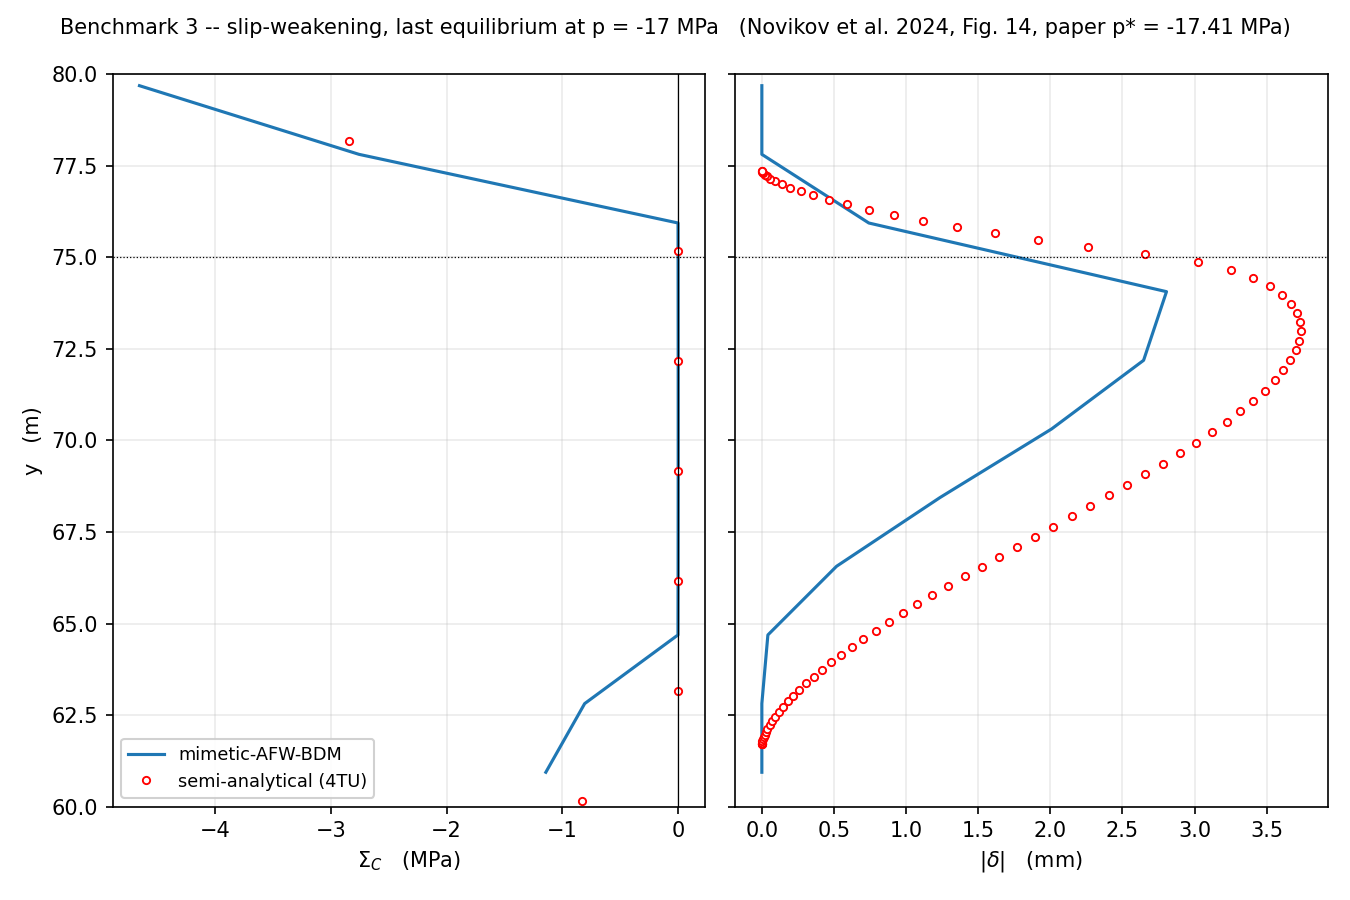
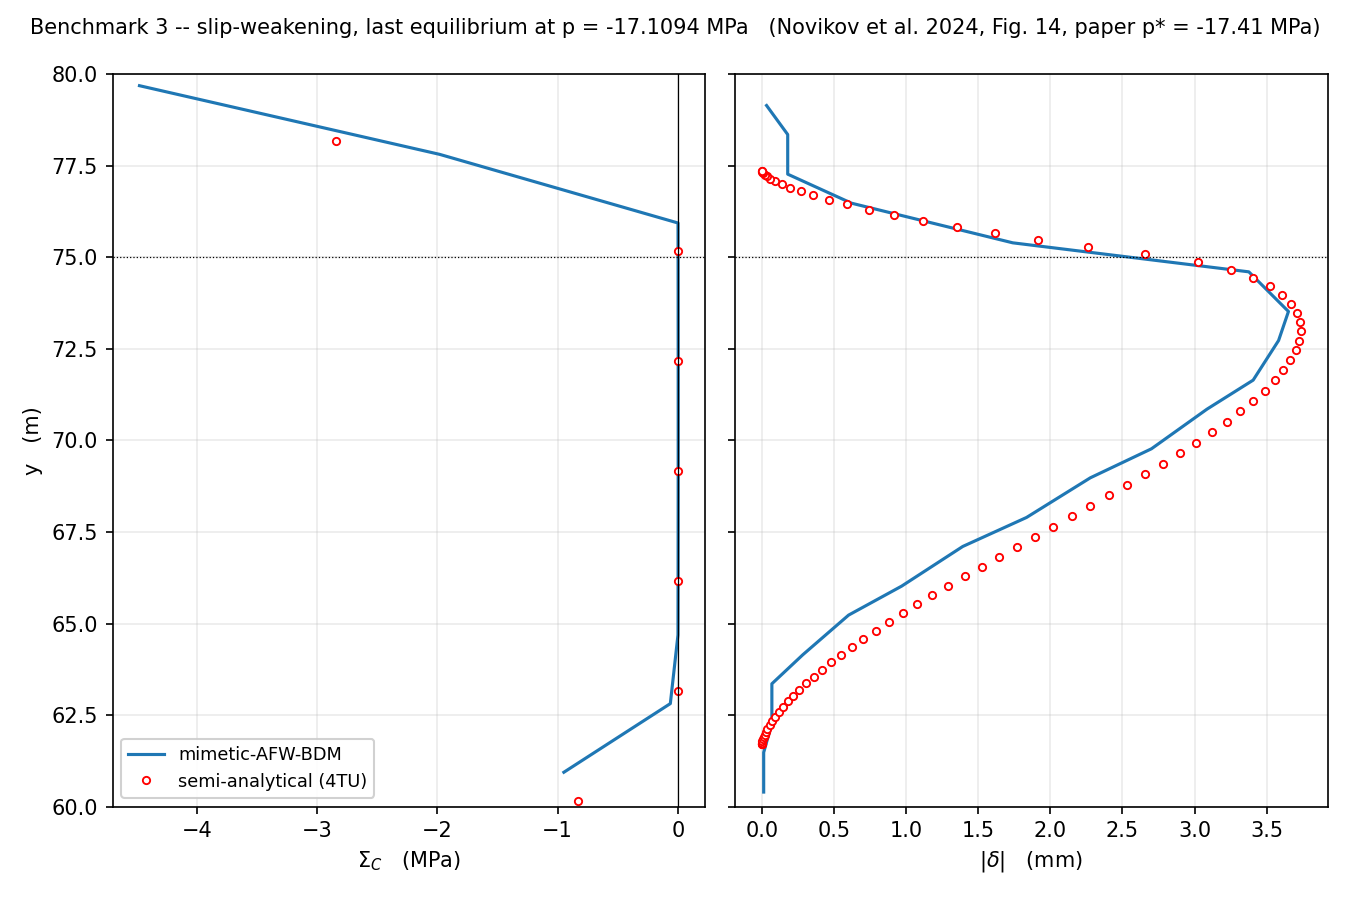
wip: benchmark 3 is acceptable

diff --git a/benchmarks/contact_mechanics/benchmark_3.py b/benchmarks/contact_mechanics/benchmark_3.py
@@ -178,6 +178,25 @@ def simulate(parameters: Parameters, law: SlipWeakening,
     order = np.argsort(y)
     slip = driver.per_facet(state.jump)[:, 1]
     converged = converged and float(np.abs(slip).max()) < 50 * law.critical
+
+    # resolved fault profile: the stress space carries BDM_1 facet moments,
+    # so traction and jump vary *linearly* along every facet -- twice the
+    # information of a facet average (and of a collocated FV on the same
+    # mesh).  Read both at the two facet Gauss points.
+    pw = ContactDriver(mesh, fault, SignoriniCoulomb(friction=law.static),
+                       prestress=None, mu=parameters.shear_modulus, lam=lam,
+                       enforcement="pointwise")
+    _, _, rhs_full = factory(None)  # cached; the gap is the rows' residual
+    gap_pts = pw.gap(state.problem, state.solution, rhs=rhs_full)
+    tot_pts = (pw.expand_to_points(pre)
+               + pw.tractions(state.solution["stress"]))
+    y_pts = np.concatenate([mesh.geometry.quadrature(1, int(f))[0][:, 1]
+                            for f in fault])
+    slip_pts = np.abs(gap_pts[:, 1])
+    mu_p = np.maximum(law.dynamic, law.static
+                      - (law.static - law.dynamic) * slip_pts / law.critical)
+    sc_pts = np.abs(tot_pts[:, 1]) + mu_p * tot_pts[:, 0]
+    op = np.argsort(y_pts)
     # post-slip Coulomb function with the slip-weakening coefficient (Fig. 14
     # left): total effective traction = in-situ prestress + solved increment
     total = driver.per_facet(
@@ -190,6 +209,8 @@ def simulate(parameters: Parameters, law: SlipWeakening,
     coulomb = np.abs(total[:, 1]) + mu_fac * total[:, 0]
     return {
         "y": y[order], "slip": slip[order], "coulomb": coulomb[order],
+        "y_pts": y_pts[op], "slip_pts": slip_pts[op],
+        "coulomb_pts": sc_pts[op],
         "state": state, "built": built, "mu": mu_pts,
         "converged": converged,
         "peak": float(np.abs(slip).max()),
@@ -204,6 +225,10 @@ def main() -> None:
     parser.add_argument("--start", type=float, default=-16.5)
     parser.add_argument("--stop", type=float, default=-19.0)
     parser.add_argument("--step", type=float, default=0.25)
+    parser.add_argument("--refine", type=float, default=0.02,
+                        help="bisect the nucleation bracket down to this "
+                             "width in MPa (0 disables); Fig. 14 is drawn "
+                             "at the deepest converged level")
     parser.add_argument("--mu-s", type=float, default=0.52)
     parser.add_argument("--mu-d", type=float, default=0.20)
     parser.add_argument("--delta-c", type=float, default=0.02)
@@ -238,9 +263,29 @@ def main() -> None:
         last = (level, res)
         mu0 = res["mu"]  # continue the friction field along the branch
 
+    if nucleated is not None and last is not None and arguments.refine > 0:
+        # bisect toward the fold: each probe rides the cached factorization,
+        # and the deepest converged state is the honest pre-nucleation one
+        lo, hi = nucleated, last[0]
+        mu0 = last[1]["mu"]
+        while hi - lo > arguments.refine + 1e-12:
+            mid = 0.5 * (lo + hi)
+            stage = replace(parameters, depletion=mid * 1e6)
+            res = simulate(stage, law, spacing=arguments.spacing, built=built,
+                           mu0=mu0)
+            status = ("converged" if res["converged"] else "NO EQUILIBRIUM")
+            print(f"  p = {mid:8.3f} MPa   peak |slip| = "
+                  f"{res['peak'] * 1e3:7.3f} mm   {status}   (bisection)")
+            if res["converged"]:
+                hi, last, mu0 = mid, (mid, res), res["mu"]
+                profiles.append((mid, res["y"], np.abs(res["slip"])))
+            else:
+                lo = mid
+        nucleated = lo
+
     if nucleated is not None:
-        upper = f"{last[0]:.2f}" if last is not None else f"> {nucleated:.2f}"
-        print(f"\n  nucleation bracketed: p* in ({nucleated:.2f}, {upper}) MPa")
+        upper = f"{last[0]:.3f}" if last is not None else f"> {nucleated:.3f}"
+        print(f"\n  nucleation bracketed: p* in ({nucleated:.3f}, {upper}) MPa")
         print("  (paper: -17.41 MPa semi-analytical, -17.27 MPa DARTS; on "
               "coarse fault spacings p* shifts to the mesh-dependent slip "
               "onset -- see the docstring)")
@@ -250,7 +295,7 @@ def main() -> None:
     ref = reference_pre_nucleation()
     if ref is not None and last is not None:
         yr, dr = ref
-        ours = np.interp(yr, last[1]["y"], np.abs(last[1]["slip"]))
+        ours = np.interp(yr, last[1]["y_pts"], last[1]["slip_pts"])
         sel = np.abs(yr) <= 100.0
         rms = np.sqrt(np.mean((ours[sel] - np.abs(dr[sel])) ** 2))
         print(f"\n  last equilibrium (p = {last[0]:.2f} MPa) vs 4TU Fig. 14 "
@@ -275,10 +320,14 @@ def main() -> None:
         level, res = last
         fig, (left_ax, right_ax) = plt.subplots(1, 2, figsize=(9.0, 6.0),
                                                 sharey=True)
-        sel = (res["y"] >= 60.0) & (res["y"] <= 80.0)
-        left_ax.plot(res["coulomb"][sel] / 1e6, res["y"][sel], lw=1.5,
+        # the law constrains the facet-*mean* Coulomb stress, so that is the
+        # enforced quantity to plot; the slip is a kinematic field whose
+        # per-facet linear (BDM) variation is genuine resolution
+        selc = (res["y"] >= 60.0) & (res["y"] <= 80.0)
+        left_ax.plot(res["coulomb"][selc] / 1e6, res["y"][selc], lw=1.5,
                      label="mimetic-AFW-BDM")
-        right_ax.plot(np.abs(res["slip"][sel]) * 1e3, res["y"][sel], lw=1.5)
+        sel = (res["y_pts"] >= 60.0) & (res["y_pts"] <= 80.0)
+        right_ax.plot(res["slip_pts"][sel] * 1e3, res["y_pts"][sel], lw=1.5)
         if REFERENCE_DATA.exists():
             rl = load_reference("14 left")
             rr = load_reference("14 right")

diff --git a/src/mimetika/contact/driver.py b/src/mimetika/contact/driver.py
@@ -285,7 +285,9 @@ class ContactDriver:
         x = np.concatenate([solution[k] for k in solution.blocks])
         r = problem.constitutive_rows(contact=False) @ x
         if rhs is not None:
-            r = r - np.asarray(rhs, dtype=float)
+            # the constitutive rows are the leading (stress) block; a full
+            # system rhs is accepted and sliced accordingly
+            r = r - np.asarray(rhs, dtype=float)[: len(r)]
         out = []
         for f in self.facets:
             coeffs = -r[self.ndf * int(f) : self.ndf * (int(f) + 1)].reshape(
